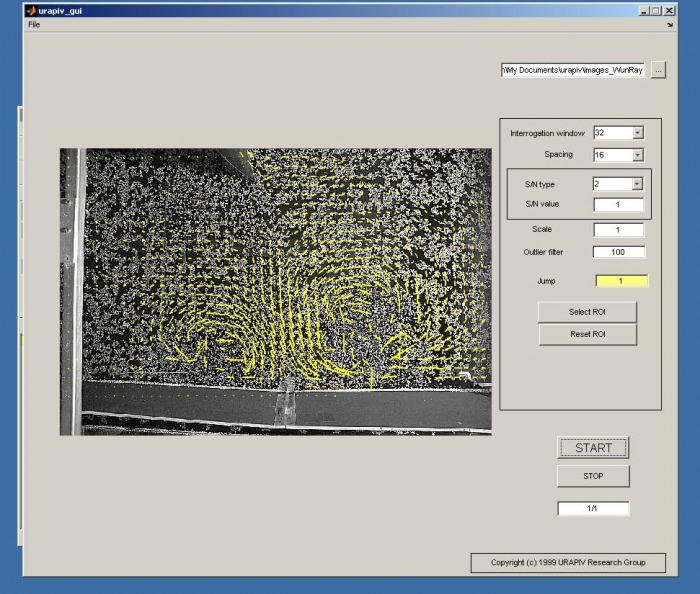
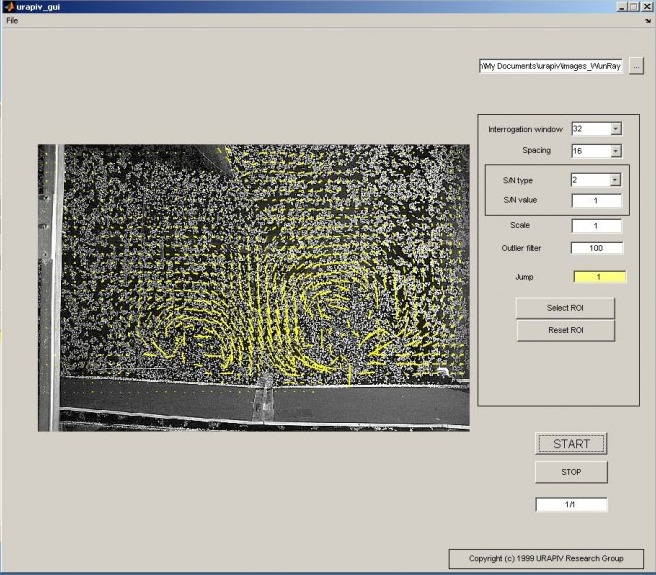
removed old images fixed snapshots with more responsive (size dependent) images and titles

diff --git a/snapshots.md b/snapshots.md
@@ -3,24 +3,73 @@ layout: default
 title: Snapshots
 ---
 
-![](images/2758623_orig.jpg)
+#### Matlab version with GUI - PIV of granular material slugs in a circular pipe
 
-![](images/7034055_orig.jpg)
-		
-![](images/2952931_orig.jpg)
+<img src="images/ScreenShot-2014-04-12.png" class="img-responsive" alt="Responsive image">
 
-![](images/3870882_orig.jpg)
+----
 
-![](images/6118616_orig.jpg)
+#### Matlab version with GUI - PIV of small scale vortices near a solid wall
 
-![](images/308957_orig.jpg)
+<img src="images/2758623_orig.jpg" alt="Responsive image" class="img-responsive">
 
-![](images/1104404_orig.jpg)
+----
 
-![](images/1965887_orig.jpg)
 
-![](images/4043066_orig.png)
+#### Old GUI format for Matlab 6
+<img src="images/7034055_orig.jpg" lass="img-responsive" alt="Responsive image">
 
-![](images/1333958_orig.jpg)
+---	
 
-![](images/8930832_orig.png)
+#### Matlab version with GUI - turbulent flow under an oscillating grid		
+<img src="images/2952931_orig.jpg" class="img-responsive" alt="Responsive image">
+
+
+---
+
+#### Impinging jet, see our work on pressure estimate using PIV
+
+<img src="images/6118616_orig.jpg" class="img-responsive" alt="Responsive image">
+
+---
+
+#### Python version, command line, see our online version on Wakari
+
+<img src="images/308957_orig.jpg" class="img-responsive" alt="Responsive image">
+
+----
+
+#### Unusual PIV analysis - optical flow algorithm applied to car velocity estimate
+
+<img src="images/1104404_orig.jpg" class="img-responsive" alt="Responsive image">
+
+---
+
+
+
+#### Python version using Cython (C compiled Python code), test case
+
+<img src="images/1965887_orig.jpg" class="img-responsive" alt="Responsive image">
+
+---
+
+
+#### Small vesicle motion
+
+<img src="images/4043066_orig.png" class="img-responsive" alt="Responsive image">
+
+----
+
+#### Old, very first translation of Matlab code to Python, IDLE shell
+<img src="images/1333958_orig.jpg" class="img-responsive" alt="Responsive image">
+
+
+----
+
+### C++ with Qt-based GUI 
+
+<img src="images/8930832_orig.png" class="img-responsive" alt="Responsive image">
+
+very fast software, used for the long-duration, time-resolved PIV analysis of the 
+dynamic flutter in turbulent flows. Analysing 10,000 image pairs can become an issue 
+when the PIV analysis takes 1 minute per image pair. 
